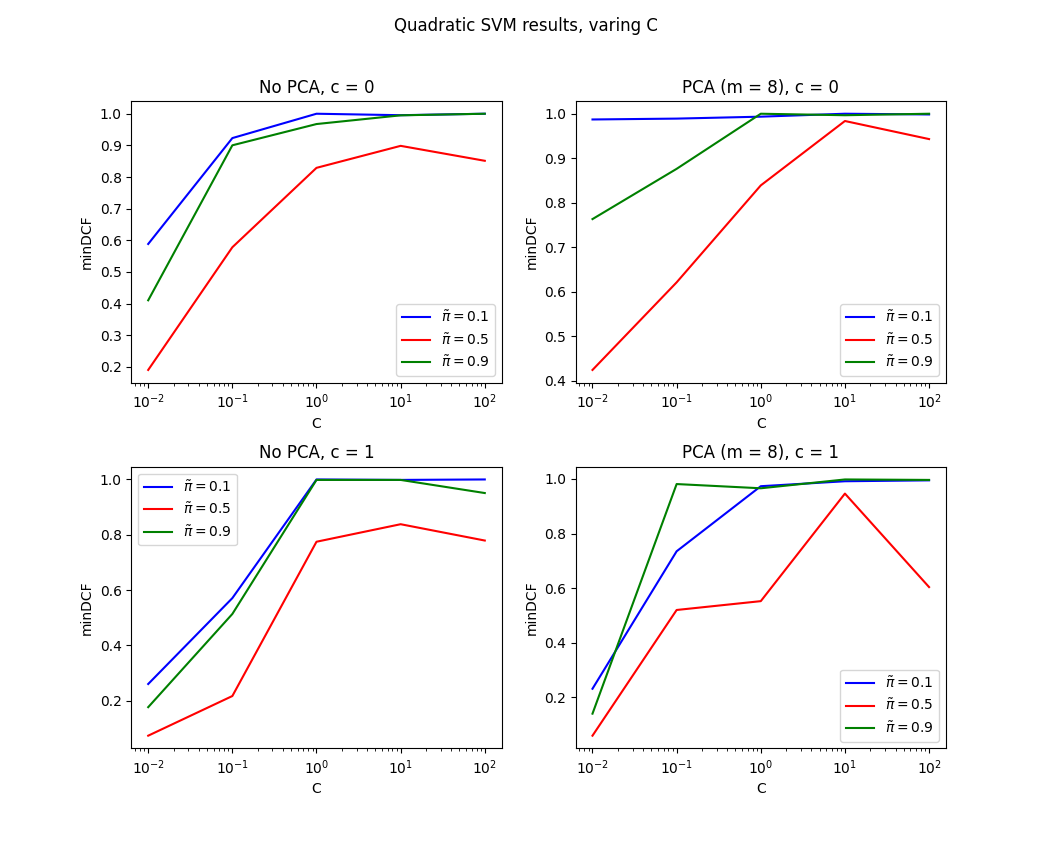
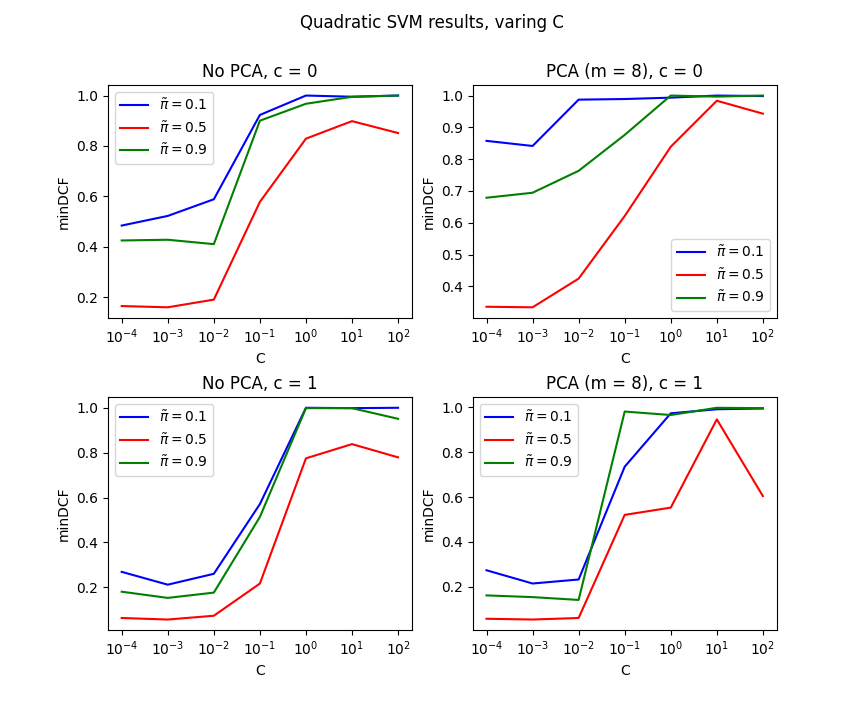
added C = 0.001 to svm poly plot

diff --git a/plots.py b/plots.py
@@ -136,20 +136,20 @@ def linear_svm_plot():
     plt.show()
 
 def quadratic_svm_plot():
-    C = np.array([0.01, 0.1, 1, 10, 100])
-    labels = [0.01, 0.1, 1, 10, 100]
-    gaussF_pcaF_ptilde_0_1_c_0 = np.array([0.588509, 0.923042, 1.000000, 0.995350, 1.000000])
-    gaussF_pcaF_ptilde_0_5_c_0 = np.array([0.190486, 0.578124, 0.829016, 0.898523, 0.851302])
-    gaussF_pcaF_ptilde_0_9_c_0 = np.array([0.410541, 0.900257, 0.967413, 0.994949, 1.000000])
-    gaussF_pca8_ptilde_0_1_c_0 = np.array([0.987099, 0.989049, 0.993399, 1.000000, 0.998350])
-    gaussF_pca8_ptilde_0_5_c_0 = np.array([0.424342, 0.621179, 0.838984, 0.983665, 0.943044])
-    gaussF_pca8_ptilde_0_9_c_0 = np.array([0.763293, 0.876204, 1.000000, 0.996633, 1.000000])
-    gaussF_pcaF_ptilde_0_1_c_1 = np.array([0.260426, 0.570957, 1.000000, 0.998350, 1.000000])
-    gaussF_pcaF_ptilde_0_5_c_1 = np.array([0.073574, 0.216955, 0.774811, 0.838167, 0.779161])
-    gaussF_pcaF_ptilde_0_9_c_1 = np.array([0.176651, 0.513651, 0.998316, 0.998316, 0.950878])
-    gaussF_pca8_ptilde_0_1_c_1 = np.array([0.232073, 0.735374, 0.973597, 0.991749, 0.995050])
-    gaussF_pca8_ptilde_0_5_c_1 = np.array([0.060206, 0.520419, 0.552772, 0.946578, 0.604260])
-    gaussF_pca8_ptilde_0_9_c_1 = np.array([0.140814, 0.981481, 0.966030, 0.998316, 0.996633])
+    labels = [0.0001, .001, 0.01, 0.1, 1, 10, 100]
+    C = np.array(labels)
+    gaussF_pcaF_ptilde_0_1_c_0 = np.array([0.484248, 0.522502, 0.588509, 0.923042, 1.000000, 0.995350, 1.000000])
+    gaussF_pcaF_ptilde_0_5_c_0 = np.array([0.164966, 0.160016, 0.190486, 0.578124, 0.829016, 0.898523, 0.851302])
+    gaussF_pcaF_ptilde_0_9_c_0 = np.array([0.425093, 0.427976, 0.410541, 0.900257, 0.967413, 0.994949, 1.000000])
+    gaussF_pca8_ptilde_0_1_c_0 = np.array([0.857486, 0.841434, 0.987099, 0.989049, 0.993399, 1.000000, 0.998350])
+    gaussF_pca8_ptilde_0_5_c_0 = np.array([0.335850, 0.334133, 0.424342, 0.621179, 0.838984, 0.983665, 0.943044])
+    gaussF_pca8_ptilde_0_9_c_0 = np.array([0.678635, 0.694386, 0.763293, 0.876204, 1.000000, 0.996633, 1.000000])
+    gaussF_pcaF_ptilde_0_1_c_1 = np.array([0.269127, 0.211971, 0.260426, 0.570957, 1.000000, 0.998350, 1.000000])
+    gaussF_pcaF_ptilde_0_5_c_1 = np.array([0.063573, 0.056706, 0.073574, 0.216955, 0.774811, 0.838167, 0.779161])
+    gaussF_pcaF_ptilde_0_9_c_1 = np.array([0.180618, 0.153082, 0.176651, 0.513651, 0.998316, 0.998316, 0.950878])
+    gaussF_pca8_ptilde_0_1_c_1 = np.array([0.273177, 0.214071, 0.232073, 0.735374, 0.973597, 0.991749, 0.995050])
+    gaussF_pca8_ptilde_0_5_c_1 = np.array([0.056839, 0.053339, 0.060206, 0.520419, 0.552772, 0.946578, 0.604260])
+    gaussF_pca8_ptilde_0_9_c_1 = np.array([0.161016, 0.153382, 0.140814, 0.981481, 0.966030, 0.998316, 0.996633])
 
     plt.figure()
     plt.suptitle("Quadratic SVM results, varing C")
@@ -457,5 +457,5 @@ if __name__ == '__main__':
     """
     # quad_lr_plot()
     # linear_svm_plot()
-    # quadratic_svm_plot()
-    radial_svm_plot()
+    quadratic_svm_plot()
+    # radial_svm_plot()
